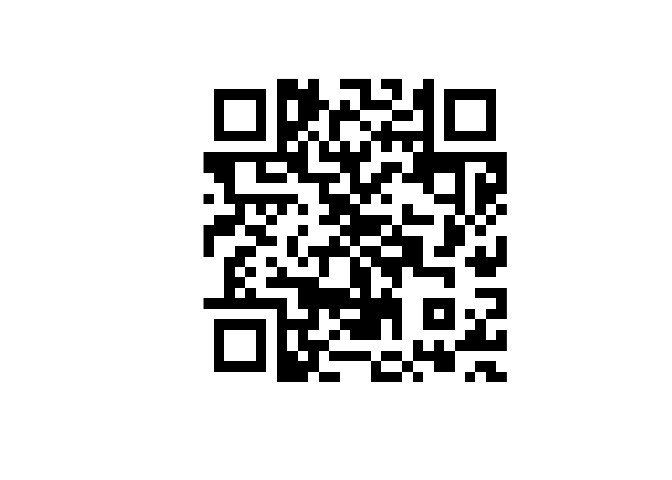
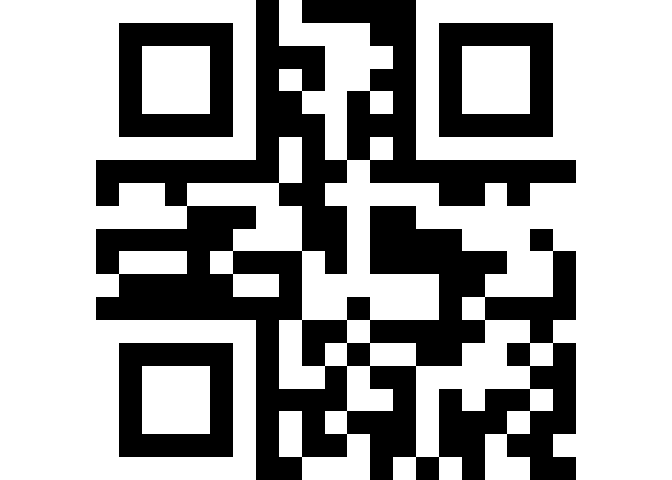
More params

diff --git a/src/qrencoder.cpp b/src/qrencoder.cpp
@@ -1,24 +1,46 @@
 #include <Rcpp.h>
-#include <string.h>
 #include "qrencode.h"
 
 using namespace Rcpp;
 
 //' @title Encodes a string as a QR code
 //' @param to_encode character string to encode
+//' @param version version of the symbol. If \code{0}, the library chooses the
+//'        minimum version for the given input data.
+//' @param level error correction level (\code{0} - \code{3}, lowest to highest)
+//' @param hint tell the library how Japanese Kanji characters should be
+//'        encoded. If "\code{3}", the library assumes that the
+//'        given string contains Shift-JIS characters and encodes them in
+//'        Kanji-mode. If "\code{2}" is given, all of non-alphanumerical
+//'        characters will be encoded as is. If you want to embed UTF-8
+//'        string, choose this. Other mode will cause EINVAL error.\cr\cr
+//'        "\code{0}" is "numeric mode", "\code{1}" is "alphanumeric mode",
+//'        "\code{5}" is "ECI mode".
+//' @param caseinsensitive case-sensitive(\code{1}) or not(\code{0}).
+//' @seealso \url{http://www.qrcode.com/en/about/version.html}
 //' @export
 //[[Rcpp::export]]
-NumericMatrix qrencode_raw(std::string to_encode) {
+NumericMatrix qrencode_raw(std::string to_encode,
+                           int version=0,
+                           int level=0,
+                           int hint=2,
+                           int caseinsensitive=1) {
 
-  QRcode *code ;
+  QRcode *qrcode ;
+  unsigned char *row;
+  int x, y;
 
-  code = QRcode_encodeString8bit(to_encode.c_str(), 0, QR_ECLEVEL_H);
+  qrcode = QRcode_encodeString(to_encode.c_str(),
+                               version,
+                               (QRecLevel)level,
+                               (QRencodeMode)hint, caseinsensitive);
 
-  NumericMatrix qr(code->width, code->width);
+  NumericMatrix qr(qrcode->width, qrcode->width);
 
-  for (int i=0; i<code->width; i++) {
-    for (int j=0; j<code->width; j++) {
-      qr(i, j) = (code->data[(code->width*i)+j] & 1);
+  for(y=0; y <qrcode->width; y++) {
+    row = qrcode->data+(y*qrcode->width);
+    for(x = 0; x < qrcode->width; x++) {
+      qr(x, y) = row[x]&0x1;
     }
   }
 

diff --git a/src/RcppExports.cpp b/src/RcppExports.cpp
@@ -6,13 +6,17 @@
 using namespace Rcpp;
 
 // qrencode_raw
-NumericMatrix qrencode_raw(std::string to_encode);
-RcppExport SEXP qrencoder_qrencode_raw(SEXP to_encodeSEXP) {
+NumericMatrix qrencode_raw(std::string to_encode, int version, int level, int hint, int caseinsensitive);
+RcppExport SEXP qrencoder_qrencode_raw(SEXP to_encodeSEXP, SEXP versionSEXP, SEXP levelSEXP, SEXP hintSEXP, SEXP caseinsensitiveSEXP) {
 BEGIN_RCPP
     Rcpp::RObject __result;
     Rcpp::RNGScope __rngScope;
     Rcpp::traits::input_parameter< std::string >::type to_encode(to_encodeSEXP);
-    __result = Rcpp::wrap(qrencode_raw(to_encode));
+    Rcpp::traits::input_parameter< int >::type version(versionSEXP);
+    Rcpp::traits::input_parameter< int >::type level(levelSEXP);
+    Rcpp::traits::input_parameter< int >::type hint(hintSEXP);
+    Rcpp::traits::input_parameter< int >::type caseinsensitive(caseinsensitiveSEXP);
+    __result = Rcpp::wrap(qrencode_raw(to_encode, version, level, hint, caseinsensitive));
     return __result;
 END_RCPP
 }

diff --git a/README.md b/README.md
@@ -36,42 +36,43 @@ packageVersion("qrencoder")
 url <- "http://rud.is/b"
 head(qrencode(url))
 #>      [,1] [,2] [,3] [,4] [,5] [,6] [,7] [,8] [,9] [,10] [,11] [,12] [,13] [,14] [,15] [,16] [,17] [,18] [,19] [,20]
-#> [1,]    1    1    1    1    1    1    1    0    0     1     0     1     1     0     0     0     1     0     0     1
-#> [2,]    1    0    0    0    0    0    1    0    0     0     0     1     1     1     1     0     1     1     0     1
-#> [3,]    1    0    1    1    1    0    1    0    1     0     0     0     1     0     1     0     0     0     1     1
-#> [4,]    1    0    1    1    1    0    1    0    1     0     0     1     0     0     0     1     1     1     0     0
-#> [5,]    1    0    1    1    1    0    1    0    0     0     1     1     0     1     1     0     1     0     1     1
-#> [6,]    1    0    0    0    0    0    1    0    0     1     0     1     0     1     1     1     0     0     0     0
-#>      [,21] [,22] [,23] [,24] [,25] [,26] [,27] [,28] [,29]
-#> [1,]     1     0     1     1     1     1     1     1     1
-#> [2,]     0     0     1     0     0     0     0     0     1
-#> [3,]     0     0     1     0     1     1     1     0     1
-#> [4,]     1     0     1     0     1     1     1     0     1
-#> [5,]     1     0     1     0     1     1     1     0     1
-#> [6,]     0     0     1     0     0     0     0     0     1
+#> [1,]    1    1    1    1    1    1    1    0    1     0     0     0     0     0     1     1     1     1     1     1
+#> [2,]    1    0    0    0    0    0    1    0    1     1     1     1     0     0     1     0     0     0     0     0
+#> [3,]    1    0    1    1    1    0    1    0    0     0     1     1     1     0     1     0     1     1     1     0
+#> [4,]    1    0    1    1    1    0    1    0    1     0     1     1     0     0     1     0     1     1     1     0
+#> [5,]    1    0    1    1    1    0    1    0    0     1     1     0     1     0     1     0     1     1     1     0
+#> [6,]    1    0    0    0    0    0    1    0    0     0     1     0     0     0     1     0     0     0     0     0
+#>      [,21]
+#> [1,]     1
+#> [2,]     1
+#> [3,]     1
+#> [4,]     1
+#> [5,]     1
+#> [6,]     1
 
 head(qrencode_df(url))
 #>   x  y z
-#> 1 0 28 1
-#> 2 1 28 1
-#> 3 2 28 1
-#> 4 3 28 1
-#> 5 4 28 1
-#> 6 5 28 1
+#> 1 0 20 1
+#> 2 1 20 1
+#> 3 2 20 1
+#> 4 3 20 1
+#> 5 4 20 1
+#> 6 5 20 1
 
 qrencode_png(url)
[2 lines of base64/hex data omitted]
 
 qrencode_raster(url)
 #> class       : RasterLayer 
-#> dimensions  : 29, 29, 841  (nrow, ncol, ncell)
-#> resolution  : 0.03448276, 0.03448276  (x, y)
+#> dimensions  : 21, 21, 441  (nrow, ncol, ncell)
+#> resolution  : 0.04761905, 0.04761905  (x, y)
 #> extent      : 0, 1, 0, 1  (xmin, xmax, ymin, ymax)
 #> coord. ref. : NA 
 #> data source : in memory
 #> names       : layer 
 #> values      : 0, 1  (min, max)
 
+par(mar=c(0,0,0,0))
 image(qrencode_raster("http://rud.is/b"), 
       asp=1, col=c("black", "white"), axes=FALSE, 
       xlab="", ylab="")
@@ -86,7 +87,7 @@ library(qrencoder)
 library(testthat)
 
 date()
-#> [1] "Sun Aug  2 11:30:30 2015"
+#> [1] "Sun Aug  2 12:41:39 2015"
 
 test_dir("tests/")
 #> testthat results ========================================================================================================
